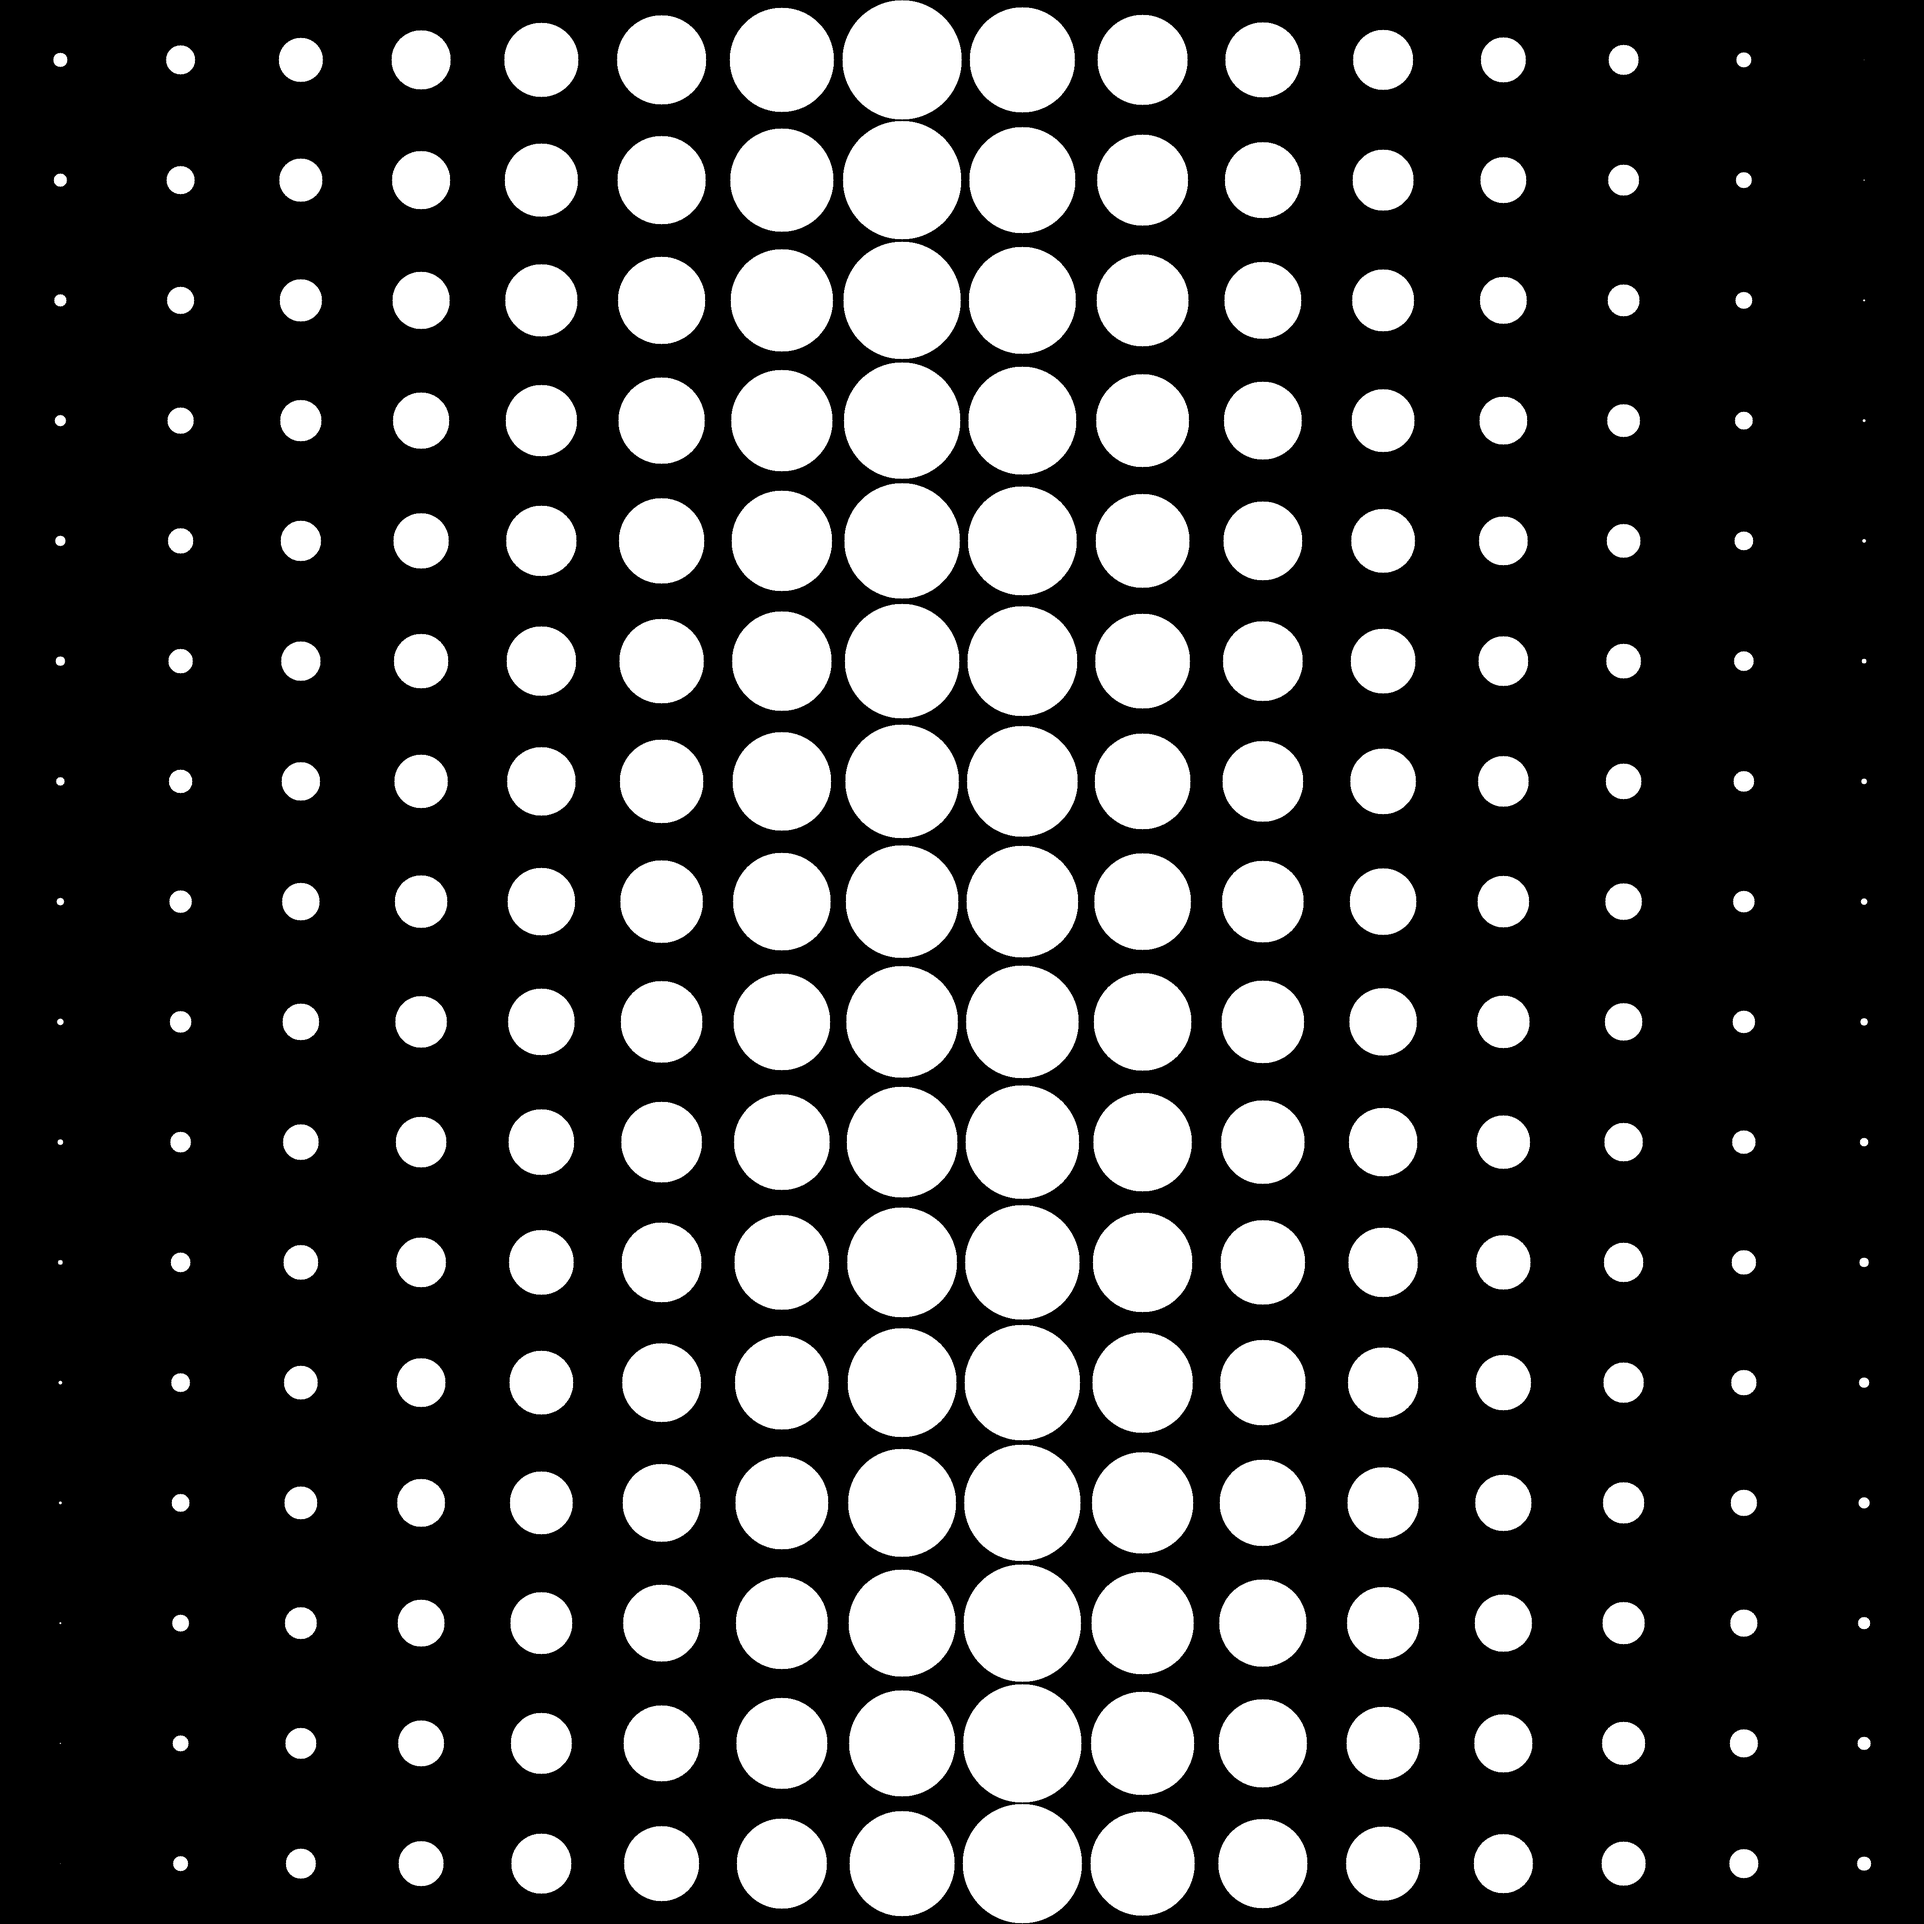
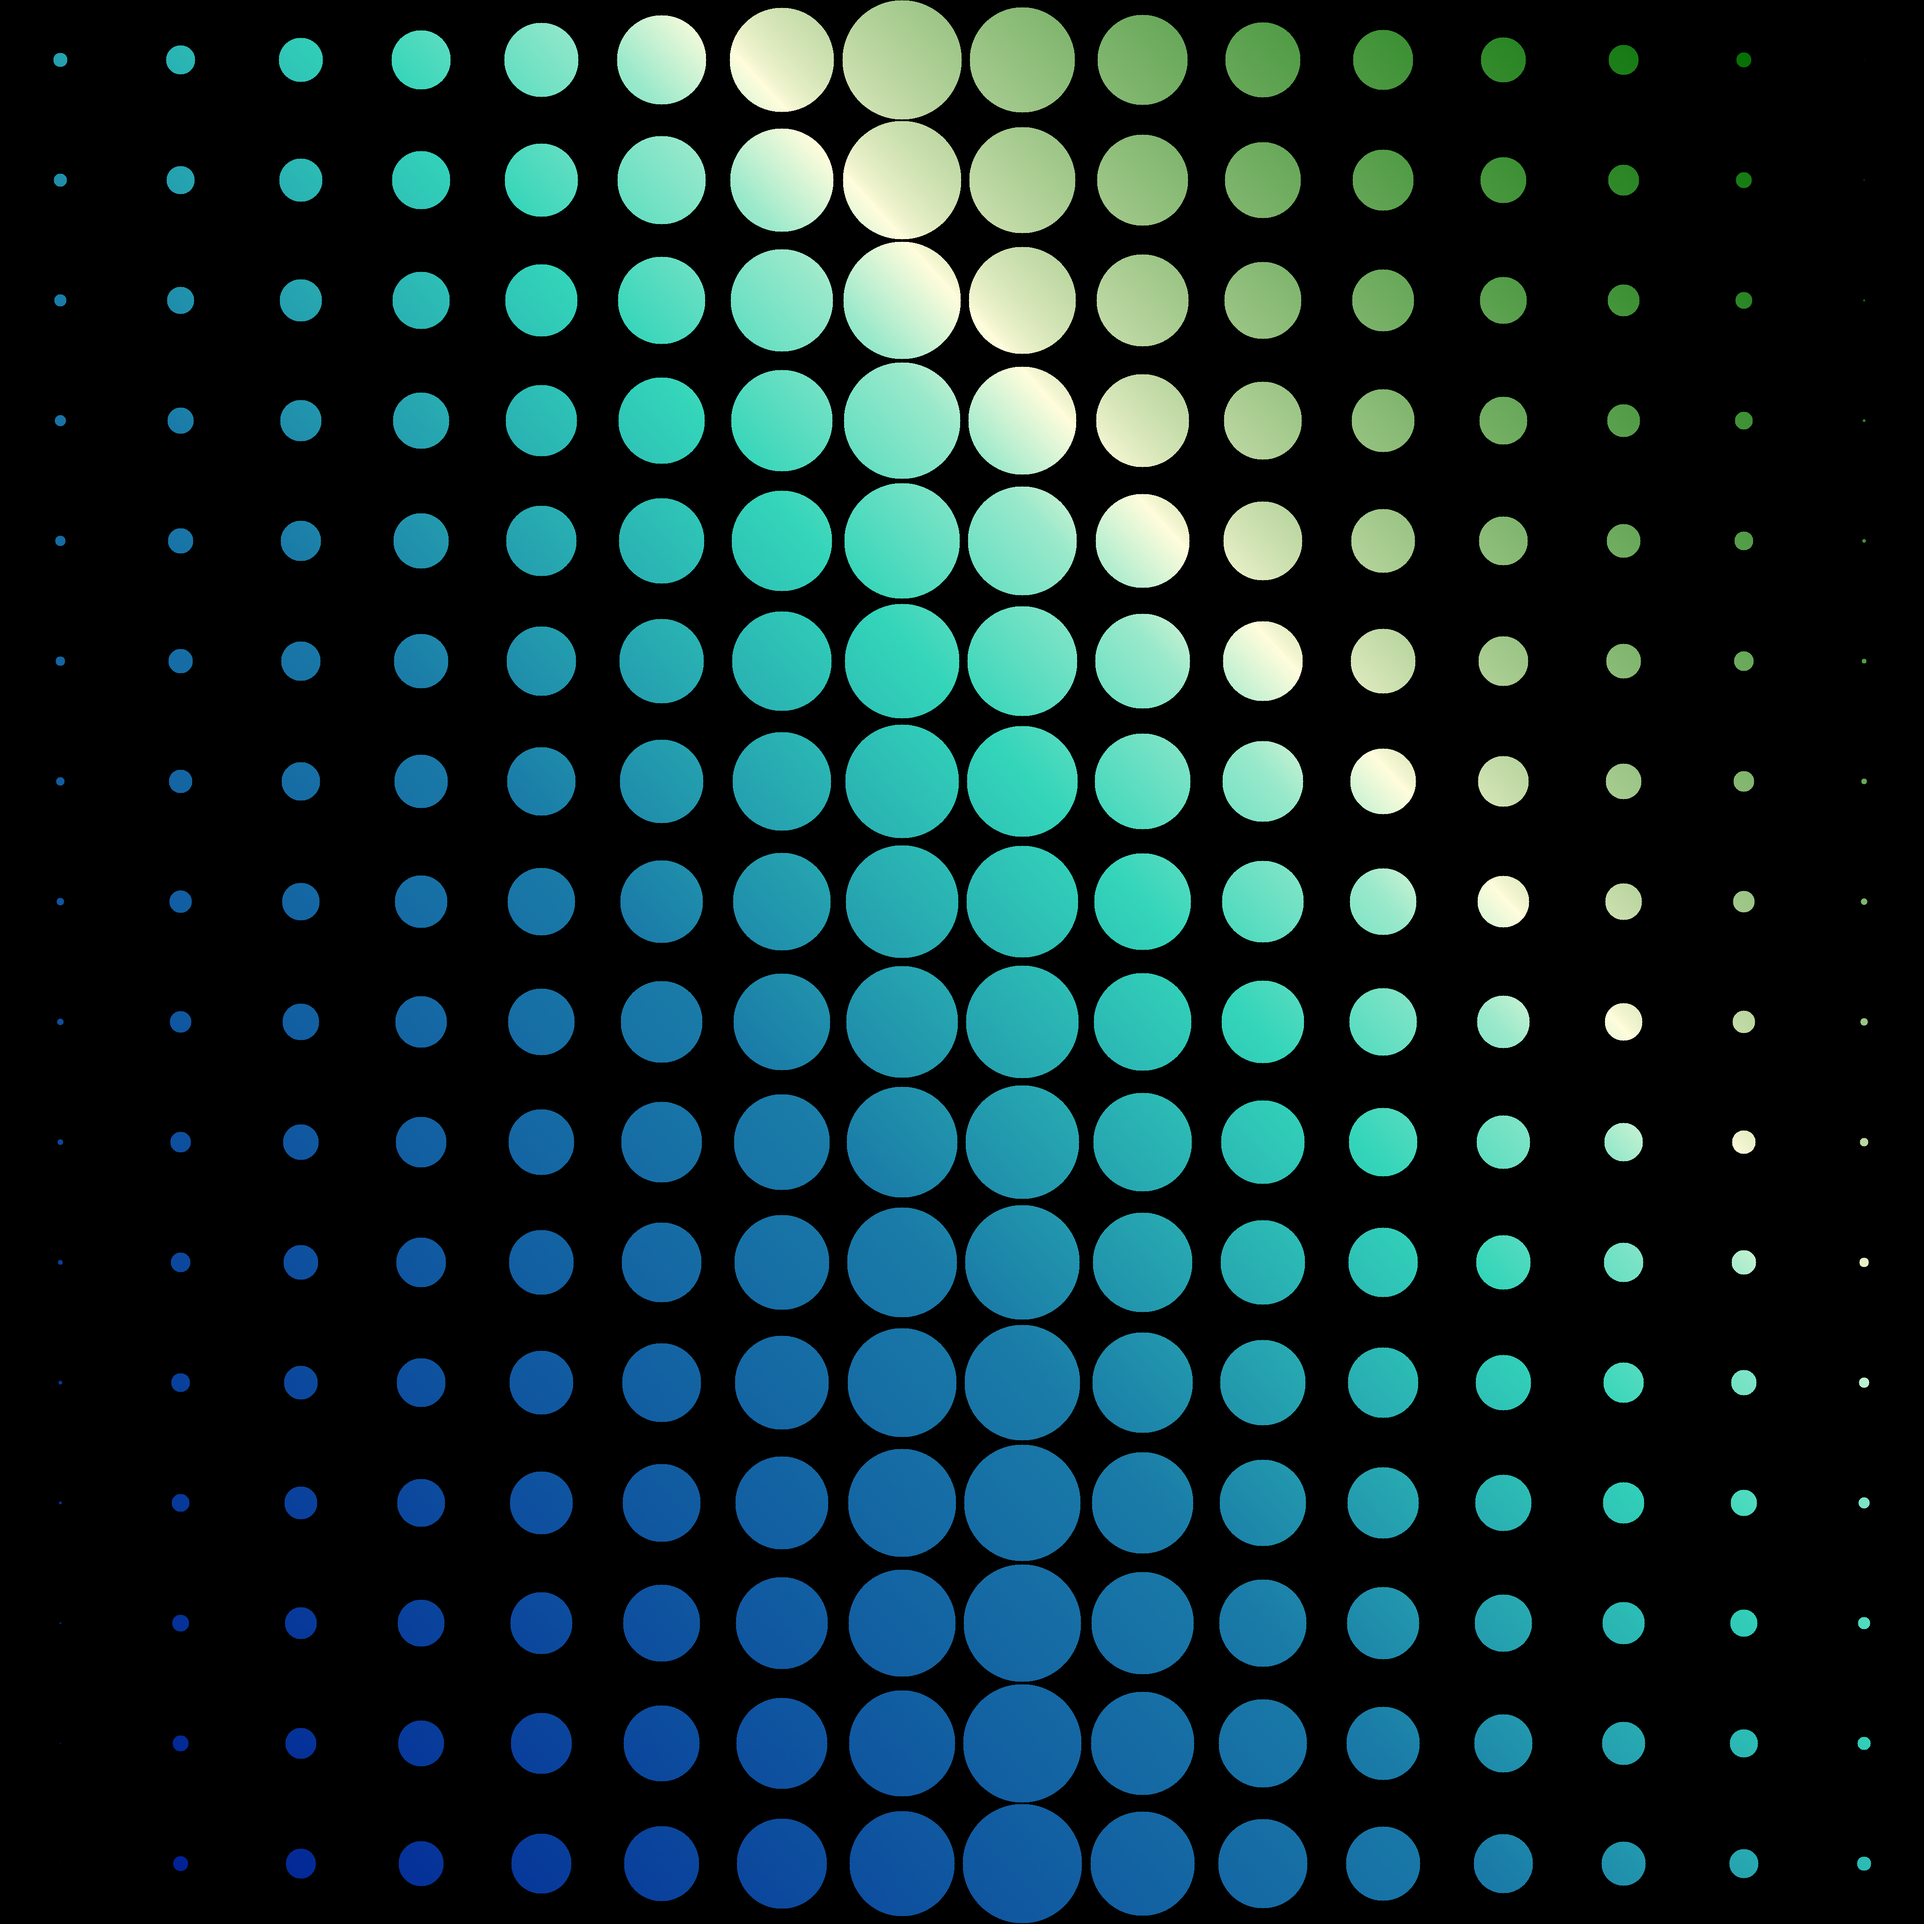
added some camera functionality

Changed region(s): [[0.125, 0.0, 0.875, 1.0]]

diff --git a/opengltest.py b/opengltest.py
@@ -117,6 +117,12 @@ def main():
     deltaX = 0
     deltaY = 0
     deltaZ = 0
+    deltaRZ = 0
+
+    mouseX, mouseY = pygame.mouse.get_pos()
+
+    lookX = 0
+    lookY = 0
 
     while True:
         for event in pygame.event.get():
@@ -133,13 +139,14 @@ def main():
                     deltaX = 0.1
                 elif event.key == pygame.K_a:
                     deltaX = -0.1
-
                 elif event.key == pygame.K_q:
-                    # rZ -= 10
                     deltaZ = -0.1
                 elif event.key == pygame.K_e:
-                    # rZ += 10
                     deltaZ = 0.1
+                elif event.key == pygame.K_c:
+                    deltaRZ = 0.1
+                elif event.key == pygame.K_z:
+                    deltaRZ = -0.1
 
             elif event.type == pygame.KEYUP:
                 if event.key == pygame.K_w:
@@ -154,34 +161,44 @@ def main():
                     deltaZ = 0
                 elif event.key == pygame.K_e:
                     deltaZ = 0
+                elif event.key == pygame.K_c:
+                    deltaRZ = 0
+                elif event.key == pygame.K_z:
+                    deltaRZ = 0
 
+        mouseX_, mouseY_ = pygame.mouse.get_pos()
+
+        if (mouseX - mouseX_) > 0:
+            lookX += 0.1
+        elif (mouseX - mouseX_) < 0:
+            lookX -= 0.1
+
+        if (mouseY - mouseY_) > 0:
+            lookY += 0.1
+        elif (mouseY - mouseY_) < 0:
+            lookY -= 0.1
+
+        mouseX = mouseX_
+        mouseY = mouseY_
 
         cY += deltaY
         cX -= deltaX
         cZ -= deltaZ
-
-        '''
-            elif event.type == pygame.KEYUP:
-                if event.key == pygame.K_w or event.key == pygame.K_s:
-                    cY = 0
-                elif event.key == pygame.K_d or event.key == pygame.K_a:
-                    cX = 0
-                elif event.key == pygame.K_q or event.key == pygame.K_e:
-                     rZ = 0
-        '''
+        rZ += deltaRZ
 
         glClear(GL_COLOR_BUFFER_BIT | GL_DEPTH_BUFFER_BIT)
 
-
-        eye = np.array([0.0, 0.0, 0.0])
-        target = np.array([cX, cY, cZ])
-        up = np.array([0.0, 0.0, 1.0])
+        # eye = np.array([0.0, 0.0, 0.0])
+        # target = np.array([lookX, lookY, 0.0])
+        # up = np.array([0.0, 1.0, 0.0])
 
         projectionMatrix = perspective(90.0, 1366.0 / 768.0, 0.1, 1000.0)
-        viewMatrix = lookat(eye, target, up)
         viewMatrix = identity()
-        modelMatrix = translate((cX, cZ, -3.0 + cY))
-        modelMatrix *= rotate(rZ, (0.0, 1.0, 0.0))
+        modelMatrix = identity()
+        viewMatrix = translate((cX*10, cZ*10, -30.0 + cY*10))
+        viewMatrix *= rotate(rZ*10, (0.0, 1.0, 0.0))
+        # viewMatrix = lookat(eye, tairget, up)
+        # viewMatrix = fpscam(eye, lookX, lookY)
         
         angle += 1.0
 
@@ -203,4 +220,6 @@ def main():
 
 
 
+
 main()
+

diff --git a/mathstuff.py b/mathstuff.py
@@ -120,3 +120,22 @@ def viewport(x, y, w, h):
                       [0  , h/2, 0,y+h/2],
                       [0  , 0  , 1,    0],
                       [0  , 0  , 0,    1]])
+
+
+def fpscam(eye, pitch, yaw):
+    pitch = math.degrees(pitch)
+    yaw = math.degrees(yaw)
+    cosPitch = math.cos(pitch)
+    sinPitch = math.sin(pitch)
+    cosYaw = math.cos(yaw)
+    sinYaw = math.sin(yaw)
+
+    xAxis = [cosYaw, 0, -sinYaw]
+    yAxis = [sinYaw * sinPitch, cosPitch, cosYaw * sinPitch]
+    zAxis = [sinYaw * cosPitch, -sinPitch, cosPitch * cosYaw]
+
+    return np.matrix([
+        [xAxis[0], yAxis[0], zAxis[0], 0],
+        [xAxis[1], yAxis[1], zAxis[1], 0],
+        [xAxis[2], yAxis[2], zAxis[2], 0],
+        [-np.dot(xAxis, eye), -np.dot(yAxis, eye), -np.dot(zAxis, eye), 1]])

diff --git a/vertex_shader.c b/vertex_shader.c
@@ -98,8 +98,9 @@ vec3 getPointOnVolume(int index)
 	
 	if (tSample != vec3(.0))
 	{
-		color = vec4(0., 0., 1., tSample.r);
-		return vec3(vCoord.x, vCoord.y, float(getDepth(tCoord))) / float(WIDTH);
+		// color = vec4(0., 0., 1., tSample.r);
+		color = vec4(tSample, 1.0);
+		return vec3(vCoord.x, vCoord.y, float(getDepth(tCoord))); // / float(WIDTH);
 		
 		// return vec3(vCoord.x, vCoord.y, float(depthLUT[int(tCoord.x)][int(tCoord.y)])) / float(16);
 	}
